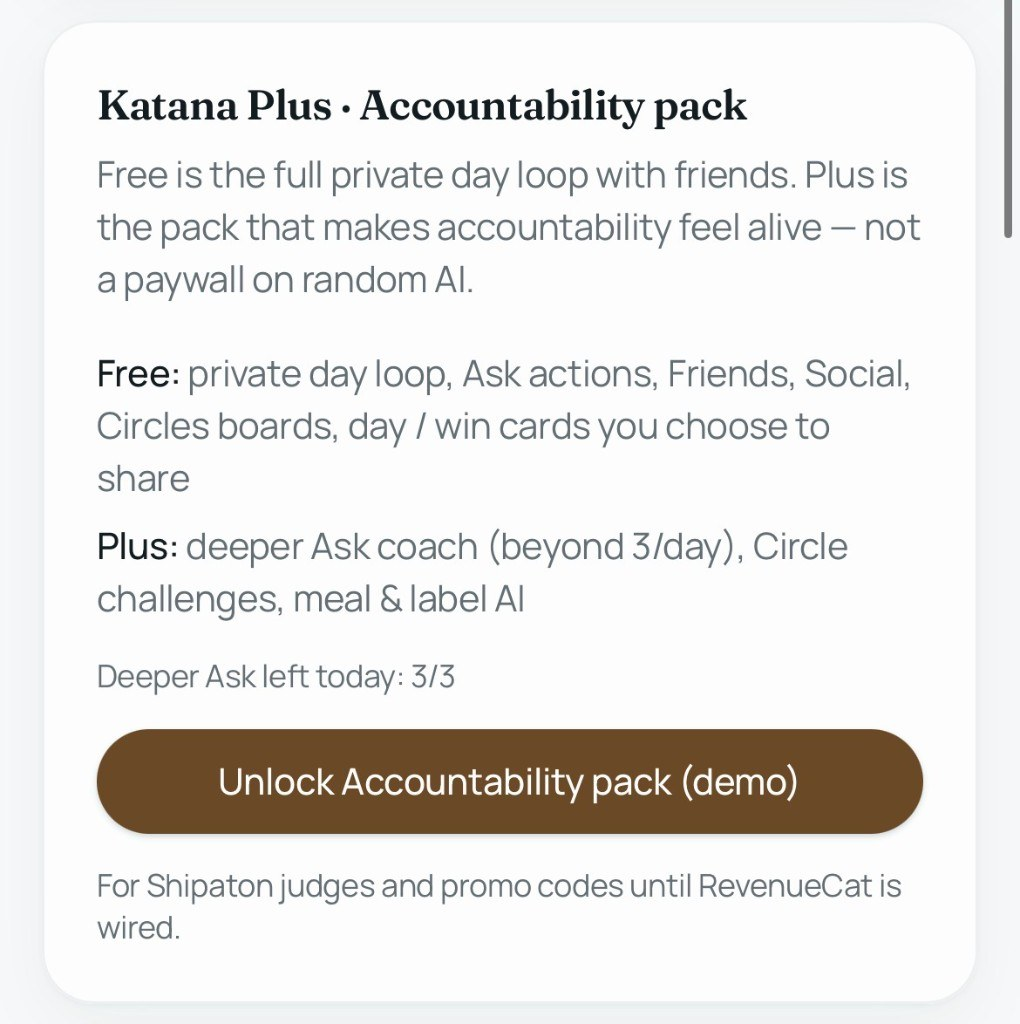
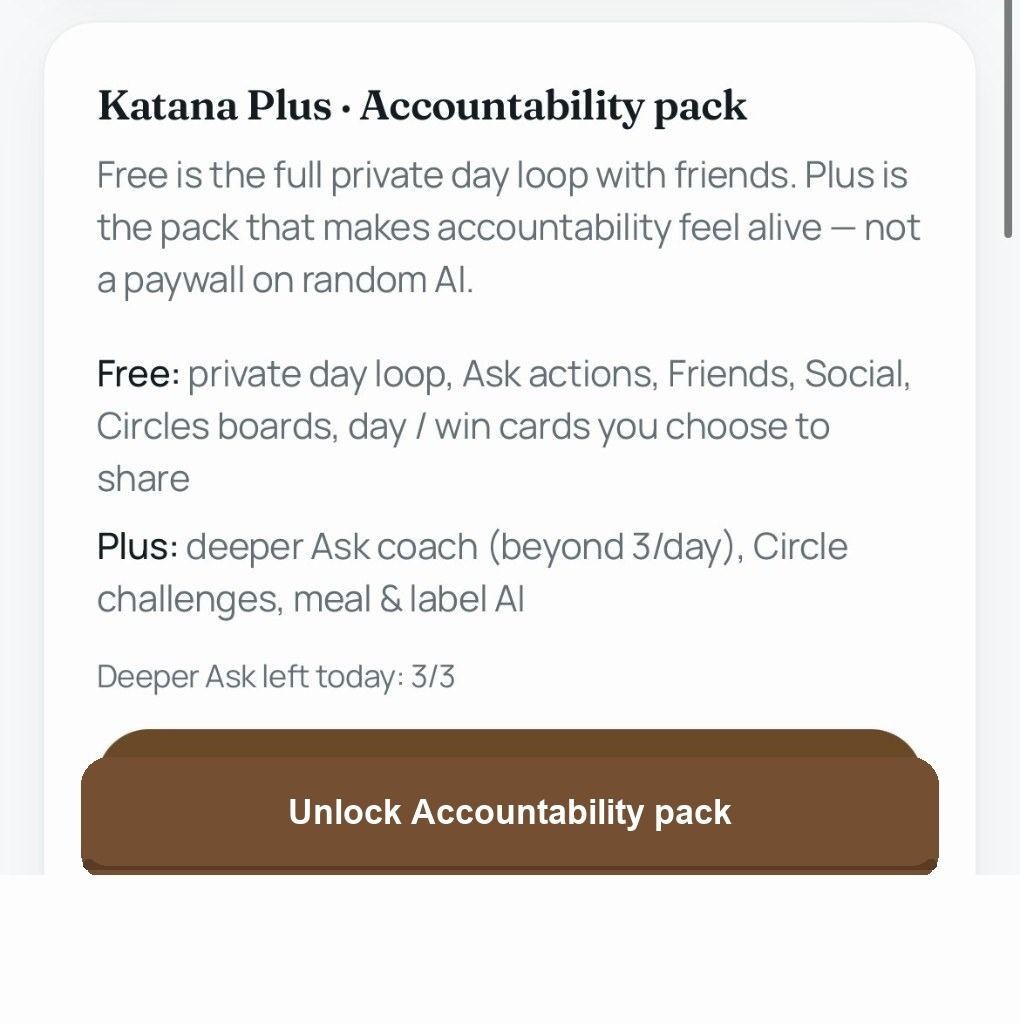
Point SEO and share metadata at katanats.com for LinkedIn launch.
Also clean the Personal Plus shot of internal demo copy and add a LinkedIn creative with the Katana mark and tagline.

Changed region(s): [[0.0608, 0.75, 0.9422, 0.9375]]

diff --git a/privacy.html b/privacy.html
@@ -8,16 +8,16 @@
   <meta property="og:title" content="Privacy Policy — Katana">
   <meta property="og:description" content="How Katana Tech Solutions LLC collects and uses information on this website.">
   <meta property="og:type" content="website">
-  <link rel="canonical" href="https://katana-technology.vercel.app/privacy">
-  <meta property="og:url" content="https://katana-technology.vercel.app/privacy">
+  <link rel="canonical" href="https://www.katanats.com/privacy">
+  <meta property="og:url" content="https://www.katanats.com/privacy">
   <meta property="og:site_name" content="Katana">
-  <meta property="og:image" content="https://katana-technology.vercel.app/og-image.jpg">
+  <meta property="og:image" content="https://www.katanats.com/og-image.jpg">
   <meta property="og:image:width" content="1024">
   <meta property="og:image:height" content="576">
   <meta property="og:image:type" content="image/jpeg">
   <meta property="og:image:alt" content="Katana — a DW Growth and Capital company">
   <meta name="twitter:card" content="summary_large_image">
-  <meta name="twitter:image" content="https://katana-technology.vercel.app/og-image.jpg">
+  <meta name="twitter:image" content="https://www.katanats.com/og-image.jpg">
   <link rel="icon" href="/katana-mark.svg" type="image/svg+xml">
   <link rel="icon" href="/favicon-32.png" type="image/png" sizes="32x32">
   <link rel="apple-touch-icon" href="/apple-touch-icon.png">
@@ -62,7 +62,7 @@
         <p class="crumb"><a href="/">Home</a> / Privacy</p>
         <p class="serif">Privacy Policy</p>
         <h1>How we handle information on this site.</h1>
-        <p class="section-lede">This policy covers katana-technology.vercel.app and any domain we later use for the Katana company site. It does not replace a product agreement if you later join a pilot or use an app.</p>
+        <p class="section-lede">This policy covers www.katanats.com and any domain we later use for the Katana company site. It does not replace a product agreement if you later join a pilot or use an app.</p>
         <p class="legal-updated">Last updated August 18, 2026</p>
       </section>
 

diff --git a/products/veyah.html b/products/veyah.html
@@ -8,16 +8,16 @@
   <meta property="og:title" content="Katana Switch — Translate messy business data into Katana">
   <meta property="og:description" content="Katana Switch is AI data translation. You bring a spreadsheet or a connected system, say where it should go, and send only after the result is certified.">
   <meta property="og:type" content="website">
-  <link rel="canonical" href="https://katana-technology.vercel.app/products/veyah">
-  <meta property="og:url" content="https://katana-technology.vercel.app/products/veyah">
+  <link rel="canonical" href="https://www.katanats.com/products/veyah">
+  <meta property="og:url" content="https://www.katanats.com/products/veyah">
   <meta property="og:site_name" content="Katana">
-  <meta property="og:image" content="https://katana-technology.vercel.app/og-image.jpg">
+  <meta property="og:image" content="https://www.katanats.com/og-image.jpg">
   <meta property="og:image:width" content="1024">
   <meta property="og:image:height" content="576">
   <meta property="og:image:type" content="image/jpeg">
   <meta property="og:image:alt" content="Katana — a DW Growth and Capital company">
   <meta name="twitter:card" content="summary_large_image">
-  <meta name="twitter:image" content="https://katana-technology.vercel.app/og-image.jpg">
+  <meta name="twitter:image" content="https://www.katanats.com/og-image.jpg">
   <link rel="icon" href="/katana-mark.svg" type="image/svg+xml">
   <link rel="icon" href="/favicon-32.png" type="image/png" sizes="32x32">
   <link rel="apple-touch-icon" href="/apple-touch-icon.png">

diff --git a/products/business.html b/products/business.html
@@ -8,16 +8,16 @@
   <meta property="og:title" content="Katana Business — Connected operations OS">
   <meta property="og:description" content="One workspace for the work, the people, the customers, and the inventory. Now accepting pilot partners.">
   <meta property="og:type" content="website">
-  <link rel="canonical" href="https://katana-technology.vercel.app/products/business">
-  <meta property="og:url" content="https://katana-technology.vercel.app/products/business">
+  <link rel="canonical" href="https://www.katanats.com/products/business">
+  <meta property="og:url" content="https://www.katanats.com/products/business">
   <meta property="og:site_name" content="Katana">
-  <meta property="og:image" content="https://katana-technology.vercel.app/og-image.jpg">
+  <meta property="og:image" content="https://www.katanats.com/og-image.jpg">
   <meta property="og:image:width" content="1024">
   <meta property="og:image:height" content="576">
   <meta property="og:image:type" content="image/jpeg">
   <meta property="og:image:alt" content="Katana — a DW Growth and Capital company">
   <meta name="twitter:card" content="summary_large_image">
-  <meta name="twitter:image" content="https://katana-technology.vercel.app/og-image.jpg">
+  <meta name="twitter:image" content="https://www.katanats.com/og-image.jpg">
   <link rel="icon" href="/katana-mark.svg" type="image/svg+xml">
   <link rel="icon" href="/favicon-32.png" type="image/png" sizes="32x32">
   <link rel="apple-touch-icon" href="/apple-touch-icon.png">

diff --git a/products/personal.html b/products/personal.html
@@ -8,16 +8,16 @@
   <meta property="og:title" content="Katana Personal — Your calm daily OS">
   <meta property="og:description" content="Plan the day. Do the next thing. Share your wins — only if you want to.">
   <meta property="og:type" content="website">
-  <link rel="canonical" href="https://katana-technology.vercel.app/products/personal">
-  <meta property="og:url" content="https://katana-technology.vercel.app/products/personal">
+  <link rel="canonical" href="https://www.katanats.com/products/personal">
+  <meta property="og:url" content="https://www.katanats.com/products/personal">
   <meta property="og:site_name" content="Katana">
-  <meta property="og:image" content="https://katana-technology.vercel.app/og-image.jpg">
+  <meta property="og:image" content="https://www.katanats.com/og-image.jpg">
   <meta property="og:image:width" content="1024">
   <meta property="og:image:height" content="576">
   <meta property="og:image:type" content="image/jpeg">
   <meta property="og:image:alt" content="Katana — a DW Growth and Capital company">
   <meta name="twitter:card" content="summary_large_image">
-  <meta name="twitter:image" content="https://katana-technology.vercel.app/og-image.jpg">
+  <meta name="twitter:image" content="https://www.katanats.com/og-image.jpg">
   <link rel="icon" href="/katana-mark.svg" type="image/svg+xml">
   <link rel="icon" href="/favicon-32.png" type="image/png" sizes="32x32">
   <link rel="apple-touch-icon" href="/apple-touch-icon.png">

diff --git a/company.html b/company.html
@@ -8,16 +8,16 @@
   <meta property="og:title" content="Company — Katana">
   <meta property="og:description" content="Katana Tech Solutions LLC is an AI technology and data company in Kings Park, New York. A DW Growth and Capital company.">
   <meta property="og:type" content="website">
-  <link rel="canonical" href="https://katana-technology.vercel.app/company">
-  <meta property="og:url" content="https://katana-technology.vercel.app/company">
+  <link rel="canonical" href="https://www.katanats.com/company">
+  <meta property="og:url" content="https://www.katanats.com/company">
   <meta property="og:site_name" content="Katana">
-  <meta property="og:image" content="https://katana-technology.vercel.app/og-image.jpg">
+  <meta property="og:image" content="https://www.katanats.com/og-image.jpg">
   <meta property="og:image:width" content="1024">
   <meta property="og:image:height" content="576">
   <meta property="og:image:type" content="image/jpeg">
   <meta property="og:image:alt" content="Katana — a DW Growth and Capital company">
   <meta name="twitter:card" content="summary_large_image">
-  <meta name="twitter:image" content="https://katana-technology.vercel.app/og-image.jpg">
+  <meta name="twitter:image" content="https://www.katanats.com/og-image.jpg">
   <link rel="icon" href="/katana-mark.svg" type="image/svg+xml">
   <link rel="icon" href="/favicon-32.png" type="image/png" sizes="32x32">
   <link rel="apple-touch-icon" href="/apple-touch-icon.png">

diff --git a/products/index.html b/products/index.html
@@ -8,16 +8,16 @@
   <meta property="og:title" content="Products — Katana">
   <meta property="og:description" content="Katana Business, Katana Switch, and Katana Personal — operations, data translation, and a daily OS.">
   <meta property="og:type" content="website">
-  <link rel="canonical" href="https://katana-technology.vercel.app/products">
-  <meta property="og:url" content="https://katana-technology.vercel.app/products">
+  <link rel="canonical" href="https://www.katanats.com/products">
+  <meta property="og:url" content="https://www.katanats.com/products">
   <meta property="og:site_name" content="Katana">
-  <meta property="og:image" content="https://katana-technology.vercel.app/og-image.jpg">
+  <meta property="og:image" content="https://www.katanats.com/og-image.jpg">
   <meta property="og:image:width" content="1024">
   <meta property="og:image:height" content="576">
   <meta property="og:image:type" content="image/jpeg">
   <meta property="og:image:alt" content="Katana — a DW Growth and Capital company">
   <meta name="twitter:card" content="summary_large_image">
-  <meta name="twitter:image" content="https://katana-technology.vercel.app/og-image.jpg">
+  <meta name="twitter:image" content="https://www.katanats.com/og-image.jpg">
   <link rel="icon" href="/katana-mark.svg" type="image/svg+xml">
   <link rel="icon" href="/favicon-32.png" type="image/png" sizes="32x32">
   <link rel="apple-touch-icon" href="/apple-touch-icon.png">

diff --git a/contact.html b/contact.html
@@ -8,16 +8,16 @@
   <meta property="og:title" content="Talk to us — Katana">
   <meta property="og:description" content="Talk to Katana about Business, Katana Switch, or Personal. Backed by DW Growth and Capital.">
   <meta property="og:type" content="website">
-  <link rel="canonical" href="https://katana-technology.vercel.app/contact">
-  <meta property="og:url" content="https://katana-technology.vercel.app/contact">
+  <link rel="canonical" href="https://www.katanats.com/contact">
+  <meta property="og:url" content="https://www.katanats.com/contact">
   <meta property="og:site_name" content="Katana">
-  <meta property="og:image" content="https://katana-technology.vercel.app/og-image.jpg">
+  <meta property="og:image" content="https://www.katanats.com/og-image.jpg">
   <meta property="og:image:width" content="1024">
   <meta property="og:image:height" content="576">
   <meta property="og:image:type" content="image/jpeg">
   <meta property="og:image:alt" content="Katana — a DW Growth and Capital company">
   <meta name="twitter:card" content="summary_large_image">
-  <meta name="twitter:image" content="https://katana-technology.vercel.app/og-image.jpg">
+  <meta name="twitter:image" content="https://www.katanats.com/og-image.jpg">
   <link rel="icon" href="/katana-mark.svg" type="image/svg+xml">
   <link rel="icon" href="/favicon-32.png" type="image/png" sizes="32x32">
   <link rel="apple-touch-icon" href="/apple-touch-icon.png">

diff --git a/index.html b/index.html
@@ -8,16 +8,16 @@
   <meta property="og:title" content="Katana — Operate with precision.">
   <meta property="og:description" content="AI-native systems for companies, their data, and the people inside them.">
   <meta property="og:type" content="website">
-  <link rel="canonical" href="https://katana-technology.vercel.app/">
-  <meta property="og:url" content="https://katana-technology.vercel.app/">
+  <link rel="canonical" href="https://www.katanats.com/">
+  <meta property="og:url" content="https://www.katanats.com/">
   <meta property="og:site_name" content="Katana">
-  <meta property="og:image" content="https://katana-technology.vercel.app/og-image.jpg">
+  <meta property="og:image" content="https://www.katanats.com/og-image.jpg">
   <meta property="og:image:width" content="1024">
   <meta property="og:image:height" content="576">
   <meta property="og:image:type" content="image/jpeg">
   <meta property="og:image:alt" content="Katana — a DW Growth and Capital company">
   <meta name="twitter:card" content="summary_large_image">
-  <meta name="twitter:image" content="https://katana-technology.vercel.app/og-image.jpg">
+  <meta name="twitter:image" content="https://www.katanats.com/og-image.jpg">
   <link rel="icon" href="/katana-mark.svg" type="image/svg+xml">
   <link rel="icon" href="/favicon-32.png" type="image/png" sizes="32x32">
   <link rel="apple-touch-icon" href="/apple-touch-icon.png">

diff --git a/terms.html b/terms.html
@@ -8,16 +8,16 @@
   <meta property="og:title" content="Terms of Use — Katana">
   <meta property="og:description" content="Terms of use for the Katana Tech Solutions LLC company website.">
   <meta property="og:type" content="website">
-  <link rel="canonical" href="https://katana-technology.vercel.app/terms">
-  <meta property="og:url" content="https://katana-technology.vercel.app/terms">
+  <link rel="canonical" href="https://www.katanats.com/terms">
+  <meta property="og:url" content="https://www.katanats.com/terms">
   <meta property="og:site_name" content="Katana">
-  <meta property="og:image" content="https://katana-technology.vercel.app/og-image.jpg">
+  <meta property="og:image" content="https://www.katanats.com/og-image.jpg">
   <meta property="og:image:width" content="1024">
   <meta property="og:image:height" content="576">
   <meta property="og:image:type" content="image/jpeg">
   <meta property="og:image:alt" content="Katana — a DW Growth and Capital company">
   <meta name="twitter:card" content="summary_large_image">
-  <meta name="twitter:image" content="https://katana-technology.vercel.app/og-image.jpg">
+  <meta name="twitter:image" content="https://www.katanats.com/og-image.jpg">
   <link rel="icon" href="/katana-mark.svg" type="image/svg+xml">
   <link rel="icon" href="/favicon-32.png" type="image/png" sizes="32x32">
   <link rel="apple-touch-icon" href="/apple-touch-icon.png">
